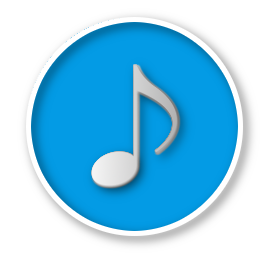
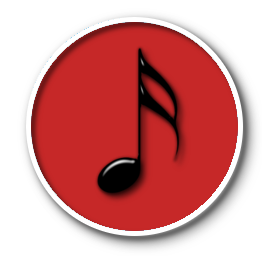
work on refactoring to a kats only site

diff --git a/client/styles/main.css b/client/styles/main.css
@@ -17,7 +17,7 @@
   z-index: 0;
   height: 100%;
   width: 100%;
-  background: url("awesomebg.jpg");
+  background: url("electric-bg.jpg");
   background-size: cover;
 }
 .katslogo{
@@ -35,8 +35,7 @@
   z-index: 2;
   width: 100%;
   height: 70px;
-  color: #039BE5;
-  background-color: white;
+  background-color: #232323;
   box-sizing: border-box;
   padding-left: 20px;
   padding-right: 20px;
@@ -45,11 +44,11 @@
   font-size: 30px;
 }
 .fixed-header a{
-  color: #039BE5;
+  color: white;
   text-decoration: none;
 }
 .layout{
-  padding-top: 180px;
+  padding-top: 120px;
   position: absolute;
   z-index: 1;
   height: 700px;
@@ -60,7 +59,7 @@
   display: inline-block;
 }
 .header-title{
-  margin-top: 17px;
+  margin-top: 10px;
 }
 .header-links{
   float: right;
@@ -90,9 +89,10 @@
   text-shadow: 0 0 15px #353535, 0 0 15px black;
 }
 .call-to-action{
-  padding-top: 75px;
   width: 700px;
   margin: 0 auto;
+  text-align: center;
+  margin-bottom: 70px;
 }
 .call-to-action a{
   text-decoration: none;
@@ -101,14 +101,14 @@
   width: 200px;
   margin-left: 30px;
   border: none;
-  background-color: rgba(204,55,47, 0.9);
+  background-color: #232323;
   height: 50px;
   color: white;
   font-size: 20px;
   box-shadow: 0 0 15px #121212;
 }
 .call-to-action button:hover{
-  color: #CC372F;
+  color: #232323;
   background-color: white;
 }
 .main-info-background{
@@ -117,19 +117,16 @@
   margin: 0 auto;
 }
 .about{
-  background-color: #FF5722;
+  background-color: #c62828;
   color: white;
-  padding-top: 80px;
+  padding-top: 20px;
   height: 500px;
   width: 100%;
-  margin-top: 231px;
   box-sizing: border-box;
 }
 .about h1{
   text-align: center;
   font-size: 35px;
-  margin: 0 auto 20px;
-  padding: 20px;
 }
 .about-content{
   color: white;
@@ -140,12 +137,11 @@
   margin: 0 auto;
 }
 .about .column{
-  margin-top: 60px;
   text-align: center;
   height: 400px;
   padding: 0 10px 0 10px;
   width: 25%;
-  background-color: #FF5722;
+  background-color: #c62828;
   float: left;
   box-sizing: border-box;
   font-size: 20px;
@@ -157,7 +153,7 @@
   text-align: center;
 }
 .divider{
-  background-color: #FF5722;
+  background-color: #c62828;
   width: 100%;
   height: 50px;
   clear: both;
@@ -205,14 +201,25 @@
   padding-bottom: 20px;
 }
 .a-gear-category{
-  background: #343434;
+  background: #232323;
   text-align: center;
   padding: 20px;
   box-sizing: border-box;
   width: 20%;
   display: inline-block;
-  color: #FF5722;
+  color: #ef5350;
   cursor: pointer;
+}
+.above-fold-content{
+  width: calc(100% - 40px);
+  padding: 20px;
+  margin: 20px;
+  box-sizing: border-box;
+}
+.above-fold-content p {
+  margin-top: 20px;
+  padding: 40px;
+  font-family: 'Roboto', sans-serif;
 }
 .gear-list .card{
   box-shadow: 0 0 5px #afafaf;
@@ -287,7 +294,7 @@
   padding-top: 50px;
   height: 500px;
   width: 100%;
-  background-color: #039BE5;
+  background-color: #232323;
   position: relative;
   box-sizing: border-box;
 }
@@ -453,7 +460,7 @@
   top: 70px;
   width: 100%;
   z-index: 1;
-  background-color: #37474F;
+  background-color: #232323;
 }
 .products{
   overflow: hidden;
@@ -812,9 +819,6 @@ blockquote em{
     width: 50%;
     margin-top: 0;
   }
-  .about h1{
-    margin-bottom: 60px;
-  }
 }
 @media (max-width: 900px) {
   .map, .map2{
@@ -1037,7 +1041,7 @@ blockquote em{
 }
 .cart-count{
   float: right;
-  color: #89ff89;
+  color: #c62828;
   padding-top: 14px;
   margin-right: 40px;
 }
@@ -1362,14 +1366,14 @@ blockquote em{
   width: 50px;
   display: block;
   content: '';
-  background: #FFC107;
+  background: #c62828;
   height: 48px;
   width: 47px;
   z-index: 1;
 }
 .search-icon::after{
   position: absolute;
-  background: #343434;
+  background: white;
   top: 57%;
   left: 66%;
   width: 6px;
@@ -1389,7 +1393,7 @@ blockquote em{
   left: 7px;
   z-index: 50;
   border-radius: 100%;
-  border: 4px solid #343434;
+  border: 4px solid white;
 }
 .products-search .loader{
   height: 30px;
@@ -1497,7 +1501,6 @@ blockquote em{
   margin-left: 10px;
   padding: 20px;
 }
-
 .cc-disabled{
   padding: 20px;
   margin-bottom: 40px;

diff --git a/client/components/main-above-fold.jsx b/client/components/main-above-fold.jsx
@@ -3,19 +3,21 @@ import React from 'react';
 export default function MainAboveFold() {
   return (
     <div>
-      <div className="slogan">
-        <h1>FULL LINE MUSIC STORE – HUGE SELECTION</h1>
-      </div>
-      <div className="call-to-action">
-        <a href="/products">
-          <button>BUY</button>
-        </a>
-        <a href="/quote">
-          <button>SELL / LOAN</button>
-        </a>
-        <a href="/#faq">
-          <button>QUESTIONS?</button>
-        </a>
+      <div className="above-fold-content">
+        <div className="slogan">
+          <h1>FULL LINE MUSIC STORE – HUGE SELECTION</h1>
+          <p>
+            Kat's Guitars, located in the woodlands, is a full line music
+            shop with a vast selection of products. We stay stocked with top
+            end guitars, amps, pedals, keyboards, violins, and many other musical
+            instruments / accessories.
+          </p>
+        </div>
+        <div className="call-to-action">
+          <a href="/products">
+            <button>SHOP NOW</button>
+          </a>
+        </div>
       </div>
     </div>
   );

diff --git a/client/components/location.jsx b/client/components/location.jsx
@@ -8,7 +8,7 @@ export default function Location() {
           <div className="pin-container">
             <img alt="location pin" src="pinicon.png" />
           </div>
-          <h3>All Pawn Kat&apos;s Guitars</h3>
+          <h3>Kat&apos;s Guitars</h3>
           <p>25907 Interstate 45 N,</p>
           <p>Spring, TX 77380</p>
           <p>(281) 363-2103</p>
@@ -18,21 +18,6 @@ export default function Location() {
         </div>
       </div>
       <div className="map" />
-      <div className="address">
-        <div className="address-content">
-          <div className="pin-container">
-            <img alt="location pin" src="pinicon.png" />
-          </div>
-          <h3>Allpawn II</h3>
-          <p>811 W. Montgomery</p>
-          <p>Willis, TX 77378</p>
-          <p>(936) 890-7296</p>
-          <p>Monday - Friday: 9AM - 6:30PM</p>
-          <p>Saturday: 9AM - 5:30PM</p>
-          <p>Sunday: Closed</p>
-        </div>
-      </div>
-      <div className="map2" />
     </div>
   );
 }

diff --git a/client/components/main.jsx b/client/components/main.jsx
@@ -22,7 +22,6 @@ export default class Home extends React.Component {
           <MainAboveFold />
           <About />
           <GearList />
-          <Faq />
           <Location />
         </div>
       </div>
